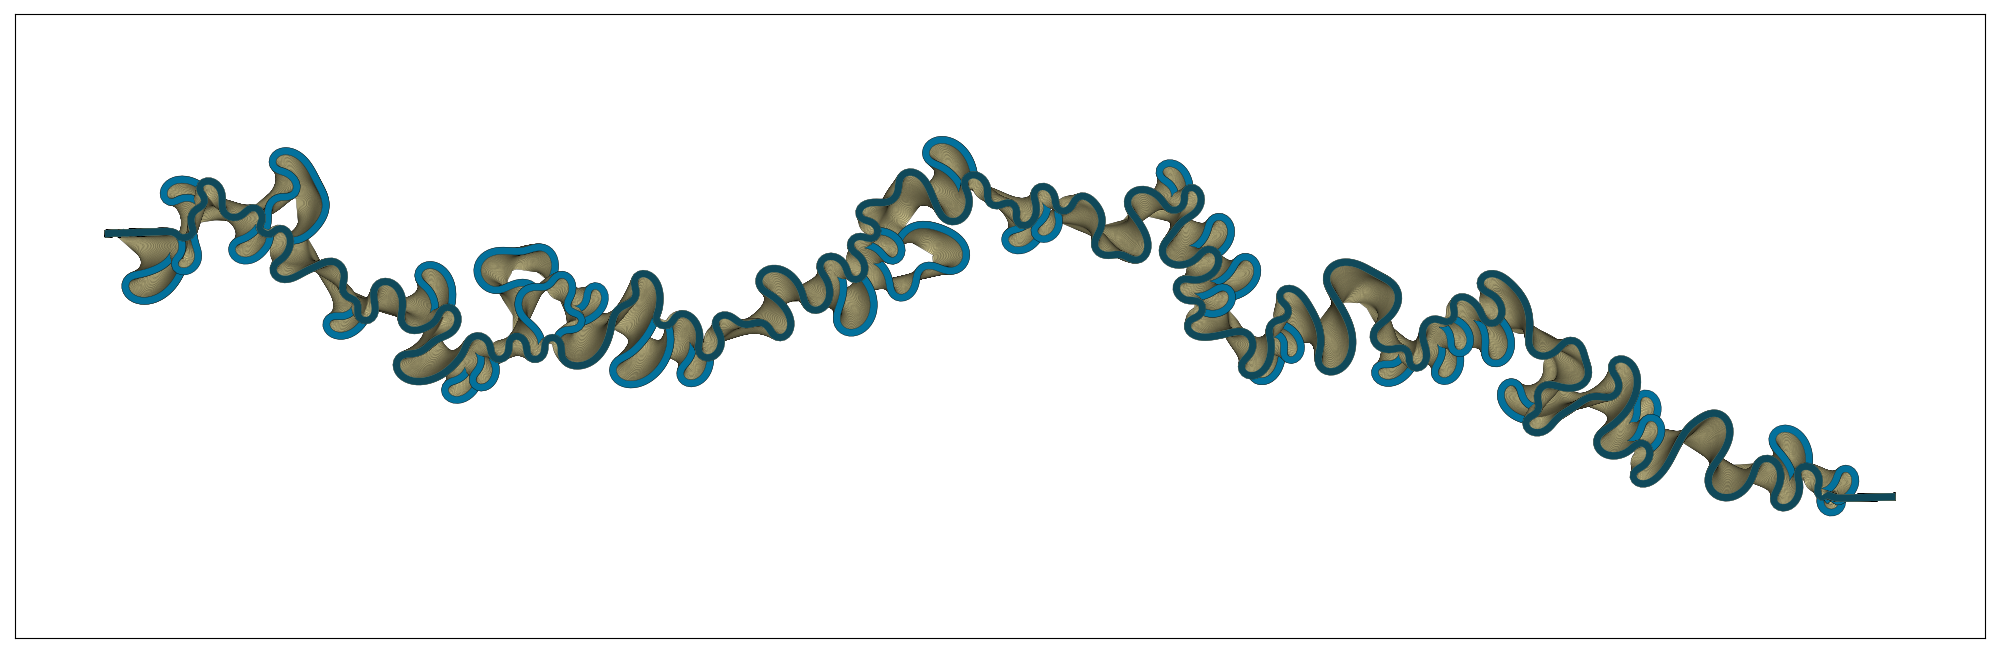
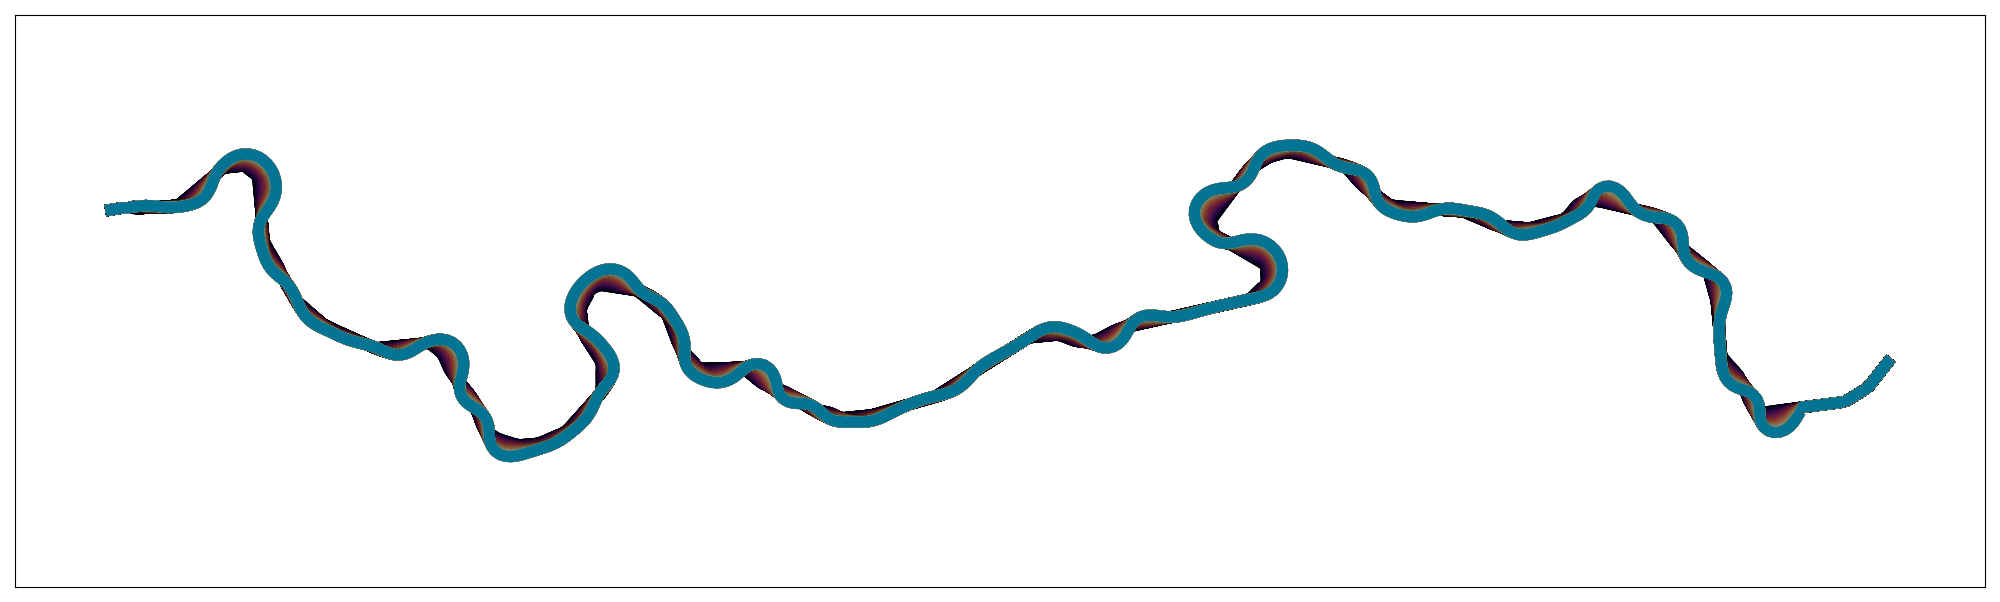
minor performance enhancements

diff --git a/simulation.py b/simulation.py
@@ -4,28 +4,31 @@ import matplotlib.pyplot as plt
 import geopandas as gpd
 from shapely.ops import linemerge
 
-## IMPORTANT: must first extract centerline data using centerlineExtraction.py
+## IMPORTANT: must first extract centerline data using centerlineExtraction[1/2].py
+
 
 ## **PARAMS**
-W = 175*12*2.54/100 # avg channel width (m) GUESSTIMATED FROM GOOGLE MAPS
-D = 4*12*2.54/100 # avg channel depth (m) TAKEN FROM RANDOM FORUM THREAD [https://www.dragonsfoot.org/forums/viewtopic.php?t=58804]
-nit = 1500 # number of iterations
+W = 175*12*2.54/100 # (175 ft) avg channel width (m) GUESSTIMATED FROM GOOGLE MAPS
+D = 4*12*2.54/100 # (4ft) avg channel depth (m) TAKEN FROM RANDOM FORUM THREAD [https://www.dragonsfoot.org/forums/viewtopic.php?t=58804]
+nit = 4300 # number of iterations
 saved_ts = 20 # save centerline approximation every savedt iterations
 deltas = W/2 # distance between nodes on centerline
 pad = 20 # affects straight channel padding at both ends of the river segment of interest. large padding = more straight channel assumed at both ends
-crdist = 2*W # (normal) distance between two stretches of river for a cutoff to occur (should be function of width?)
+crdist = 2*W # (normal) distance between two stretches of river for a cutoff to occur (should be function of width)
 depths = D * np.ones((nit,)) # array-like of channel depths. Presumably for each node point?
 Cfs = 0.011 * np.ones((nit,)) # array-like of dimensionless Chezy friction factors
-kl = 60.0/(365*24*60*60.0) # dimensionless migration rate constant
+kl = 1.2e-7 # dimensionless migration rate constant
 kv = 1e-12 # vertical slope-dependent erosion rate constant (m/s).
-dt = 0.01*365*24*60*60.0 # time step in seconds. Should definitely be way more than 1 second
+dt = 0.01*365*24*60*60.0 # time step in seconds. currently 0.01 years
 dens = 1000 # density of fluid (kg/m^3) (currently for pure water)
 
 ## **LOAD DATA**
-## Read centerline data from file and do some coordinate conversion (I don't really know how this works)
 print("beginning data extraction from file")
-# the number after epsg might need to change for a different location
-filename = 'arkansasCenterlineUSGS.geojson'
+## Read centerline data from file and do some coordinate conversion (I don't really know how this works)
+
+## Load 1980 data {
+# the number after epsg might need to change if location changes
+filename = 'arkansasCenterlineUSGS1980.geojson'
 gdf = gpd.read_file(filename).to_crs(epsg=32613)
 
 # the json file has nine rows for some reason so this merges them into one line
@@ -37,44 +40,79 @@ distances = np.arange(0, data.length, deltas)
 interpolatedPoints = [data.interpolate(d) for d in distances]
 
 # build tidy x and y arrays
-x = np.array([pt.x for pt in interpolatedPoints])
-y = np.array([pt.y for pt in interpolatedPoints])
+xOld = np.array([pt.x for pt in interpolatedPoints])
+yOld = np.array([pt.y for pt in interpolatedPoints])
 
-# normalize x and y arrays as they had huge values which was making stuff crash
-x = x - x[0]
-y = y - y[0]
+# make sure river is flowing correct direction (this assumes west to east. for rivers flowing east to west, the check should go the other way)
+if xOld[0] > xOld[-1]:
+    xOld = xOld[::-1]
+    yOld = yOld[::-1]
 
-if x[0] > x[-1]:
-    print("Reversing arrays: River was flowing East to West!")
-    x = x[::-1]
-    y = y[::-1]
+## Load 2023 data (works the same way)
+filename = 'arkansasCenterlineUSGS2023.geojson'
+gdf = gpd.read_file(filename).to_crs(epsg=32613)
+data = linemerge(gdf.explode(index_parts=False).geometry.tolist())
+distances = np.arange(0, data.length, deltas)
+interpolatedPoints = [data.interpolate(d) for d in distances]
+xNew = np.array([pt.x for pt in interpolatedPoints])
+yNew = np.array([pt.y for pt in interpolatedPoints])
+if xNew[0] > xNew[-1]:
+    xNew = xNew[::-1]
+    yNew = yNew[::-1]
 
-# show initial state of the river
-plt.plot(x, y)
+# bound the old data (which we have more of) by the region of new data (so both pieces of data cover the same region)
+offset = 0
+for i in range(len(xOld)):
+    if(not (xNew[0] <= xOld[i - offset] and xOld[i - offset] <= xNew[-1])):
+        xOld = np.delete(xOld, i - offset)
+        yOld = np.delete(yOld, i - offset)
+        offset += 1
+
+# plot old & new data on same axes
+plt.plot(xOld, yOld)
 plt.axis('scaled')
-plt.savefig('initPlot.png') # I like this better than plot.show() since I can look at the graph while the simulation is running
+plt.plot(xNew, yNew)
+plt.title("Planforms of the Arkansas River east of Pueblo")
+plt.legend(['1980', '2023'], loc='upper center', prop={'size': 8})
+plt.savefig('initPlotCombined.png') # I like this better than plot.show() since I can look at the graph while the simulation is running
+
+# plot just old data
+plt.clf()
+plt.plot(xOld, yOld)
+plt.axis('scaled')
+plt.title("1980 Arkansas River planform")
+plt.savefig('initPlot1980.png')
+
+# plot just new data
+plt.clf()
+plt.plot(xNew, yNew)
+plt.axis('scaled')
+plt.title("2023 Arkansas River planform")
+plt.savefig('initPlot2023.png')
+
+# normalize xOld and yOld arrays as they had huge values which was making stuff crash
+xOld = xOld - xOld[0]
+yOld = yOld - yOld[0]
+xNew = xNew - xNew[0]
+yNew = yNew - yNew[0]
 
 # estimate at z values
-# estimating starting elevation as 1430 meters which is the elevation of Pueblo
-# global average stream gradient is 2.6m/km
-startElev = 1430.0
-avgSlope = 0.0026
-z = np.zeros(len(x))
+startElev = 1430.0 # estimating starting elevation as 1430 meters which is the elevation of Pueblo
+avgSlope = 0.0026 # global average stream gradient is 2.6m/km
+z = np.zeros(len(xOld))
 z[0] = startElev
-for i in range(1, len(x)):
+for i in range(1, len(xOld)):
     # find elevation of point i by finding distance from point i-1
-    # and multiplying by slope (works well as rough estimate but assumes linearity)
-    stepDist = np.sqrt((x[i] - x[i-1])**2 + (y[i] - y[i-1])**2)
+    # and multiplying by slope (works well as rough estimate but assumes the river has constant gradient (in magnitude))
+    stepDist = np.sqrt((xOld[i] - xOld[i-1])**2 + (yOld[i] - yOld[i-1])**2)
     z[i] = z[i-1] - avgSlope*stepDist
-
 
 print(f"data read. beginning simulation")
 
 
-
 ## **SIMULATION**
 # initialize Channel object
-channel = mp.Channel(x, y, z, W, D)
+channel = mp.Channel(xOld, yOld, z, W, D)
 
 # initialize ChannelBelt object (simulation takes place in this thing)
 # arguments: list of channels, list of cutoffs, age of channels, age of cutoffs (unsure of how we'd list cutoffs, probably unnecessary for us atm)
@@ -86,7 +124,7 @@ channelBelt.migrate(nit, saved_ts, deltas, pad, crdist, depths, Cfs, kl, kv, dt,
 print('simulation complete. saving results ...')
          
 # plot final estimate
-fig = channelBelt.plot('strat')
+fig = channelBelt.plot('age')
 plt.savefig('finalPlot.png')
 print('resultant png saved.')
 

diff --git a/centerlineExtraction2023.py b/centerlineExtraction2023.py
@@ -1,0 +1,81 @@
+import ee
+import geemap
+import cv2
+import numpy as np
+import rasterio
+import geopandas as gpd
+import os
+import sys
+from shapely.geometry import LineString
+from skimage.morphology import skeletonize
+
+# version check (certain packages are incompatable with new numpy versions)
+if int(np.__version__.split('.')[0]) >= 2:
+    print(f"error: NumPy version {np.__version__} is incompatible.")
+    print("running \"pip install 'numpy<2'\" will solve this issue but possibly break other things with your python package dependencies")
+    sys.exit(1)
+
+ee.Authenticate()
+ee.Initialize(project='arkansas-493219') # this links to my personal google earth stuff and likely won't work on someone else's computer?
+
+# define region of interest
+roi = ee.Geometry.Rectangle([-104.54089, 38.25403, -104.44024, 38.27055])
+
+# download .tif image of the region of interest
+s2_col = (ee.ImageCollection("COPERNICUS/S2_SR_HARMONIZED")
+         .filterBounds(roi)
+         .filterDate('2023-05-01', '2023-09-30')
+         .filter(ee.Filter.lt('CLOUDY_PIXEL_PERCENTAGE', 10)))
+native_proj = s2_col.first().select('B3').projection()
+img = s2_col.median().clip(roi)
+mndwi = img.normalizedDifference(['B3', 'B11']).rename('MNDWI')
+geemap.ee_export_image(mndwi, filename='arkansas_high_res.tif', scale=10, region=roi, crs=native_proj)
+
+# get binary mask of the river
+with rasterio.open('arkansas_high_res.tif') as src:
+    data = src.read(1)
+    transform = src.transform
+    crs = src.crs
+data = np.nan_to_num(data)
+data_norm = cv2.normalize(data, None, 0, 255, cv2.NORM_MINMAX).astype(np.uint8)
+_, binary_mask = cv2.threshold(data_norm, 150, 255, cv2.THRESH_BINARY)
+kernel = np.ones((9,9), np.uint8) 
+clean_mask = cv2.dilate(binary_mask, kernel, iterations=1)
+clean_mask = cv2.erode(clean_mask, kernel, iterations=1)
+
+# thin river profile to single pixel
+skeleton = skeletonize(clean_mask > 0)
+
+# vectorize thin river profile
+rows, cols = np.where(skeleton)
+points = [transform * (c, r) for r, c in zip(rows, cols)]
+points.sort(key=lambda p: p[0]) # starts at the west end
+
+sorted_points = []
+current_pt = points.pop(0)
+sorted_points.append(current_pt)
+
+while len(points) > 0:
+    distances = [((p[0]-current_pt[0])**2 + (p[1]-current_pt[1])**2) for p in points]
+    closest_idx = np.argmin(distances)
+    dist = np.sqrt(distances[closest_idx])
+    
+    if dist < 300: # can mess with this value if we're getting extra/not enough river
+        current_pt = points.pop(closest_idx)
+        sorted_points.append(current_pt)
+    else:
+        # If we hit a massive gap (>300m), check if we have enough river yet
+        if len(sorted_points) > 500: # Adjust based on expected node count
+            #print(f"Large gap reached. Ending reach at {len(sorted_points)} points.")
+            break 
+        else:
+            # If we haven't found the 'main' river yet, keep looking
+            current_pt = points.pop(closest_idx)
+            sorted_points = [current_pt]
+
+# export results
+line = LineString(sorted_points)
+gdf = gpd.GeoDataFrame(index=[0], crs=crs, geometry=[line])
+gdf.to_file('arkansasCenterlineUSGS2023.geojson', driver='GeoJSON')
+os.remove('arkansas_high_res.tif')
+print("Found and saved data successfully")

diff --git a/centerlineExtraction1980.py b/centerlineExtraction1980.py
@@ -1,0 +1,24 @@
+import pynhd
+from shapely.geometry import box
+import os
+
+bounds = (-104.54089, 38.25403, -104.44024, 38.27055)
+
+# connects to the NHDPlus High Resolution flowline database (I don't know how this works)
+bigData = pynhd.WaterData("nhdflowline_network")
+
+# only find river data in our area of concern
+boundedData = bigData.bybox(bounds)
+
+# boundedData has info for all water features in area
+# filter for the Arkansas
+arkansas = boundedData[boundedData['gnis_name'] == 'Arkansas River']
+
+# this if/else was useful for debugging but also could be a useful sanity check if we ever decide to use another location
+if not arkansas.empty:
+    arkansas.to_file('arkansasCenterlineUSGS1980.geojson', driver='GeoJSON')
+    print("Found and saved data successfully")
+else:
+    print("No data found for given river in given bounds")
+
+os.remove('arkansas_high_res.tif')
